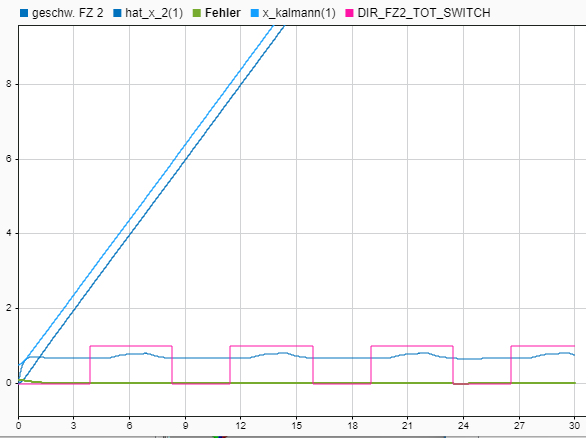
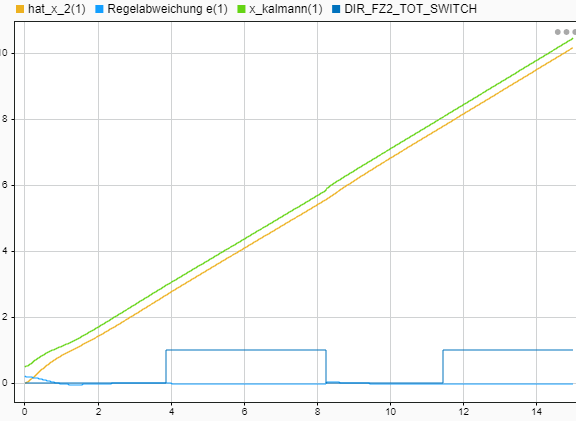
Update Polzuweisung

diff --git a/Abstandsregelung.tex b/Abstandsregelung.tex
@@ -462,8 +462,7 @@ werden um vor allem dem großen Fehler zu Beginn der Fahrt zu eliminieren.
 \subsection{Polzuweisung}\label{subsec:polzuweisung}
 Die Polzuweisung wurde analog zum Buch Lunze Regelungstechnik 2 \footnote{Lunze
 2020 - Regelungstechnik 2 - Mehrgrößensystem, Digitale Regelung, Seite 249}
-implementiert. Eine Übersicht der Implementierung in Simulink ist in
-Abbildung~\ref{fig:polzuw} dargestellt.
+implementiert. 
 \begin{figure}[hbt]
 \centering
 \begin{subfigure}{0.49\textwidth}
@@ -472,14 +471,14 @@ Abbildung~\ref{fig:polzuw} dargestellt.
 \end{subfigure}
     \caption{Übersicht über die Implementierung der Regelung mit Polzuweisung.
     \label{fig:polzuw}}
-\end{figure}    
-
-Zunächst wurde die Steuerbarkeit des Systems überprüft. Anschließend wurde durch
-den \textit{place} Befehl in Matlab die Reglermatrix $K_{pol}$ bestimmt. Die
-Pole wurden anschließend durch systematisches ausprobieren bestimmt, sodass sich
-die Werte $[-1, -5]$ ergaben. Wichtig ist dabei, dass diese links von den
-Eigenwerten liegen und beide negativ sind.
-
+\end{figure}   
+Eine Übersicht der Implementierung in Simulink ist in Abbildung~\ref{fig:polzuw}
+dargestellt. Zunächst wurde die Steuerbarkeit des Systems überprüft.
+Anschließend wurde durch den \textit{place} Befehl in Matlab die Reglermatrix
+$K_{pol}$ bestimmt. Die Pole wurden anschließend durch systematisches
+ausprobieren bestimmt, sodass sich die Werte $[-8, -7.0]$ ergaben. Wichtig ist
+dabei, dass diese links von den Eigenwerten liegen und beide negativ sind. Eine
+ideale Polzuweisung durch ein geeignetes Verfahren ist allerdings nicht möglich.
 \begin{figure}[hbt]
 \centering
 \begin{subfigure}{0.49\textwidth}
@@ -504,11 +503,17 @@ sehen, bei dem sich ein relativ großer Abstand, sowie eine großer konstanter
 Fehler (Offset) bildet. Ähnlich wie bei der Polzuweisung kann der konstante
 Fehler durch eine Vorsteuerung behoben werden.
 
-Das Verhalten mit Vorsteuerung ($pol_{offset} = 0.65$) ist in Teil (b) zu sehen.
-Der Fehler ist fast durchweg auf 0 und von Beginn an kann ein konstanter Abstand
-eingehalten werden. Der Fehler ist fast durchweg auf 0 und von Beginn
-an kann ein konstanter Abstand eingehalten werden. Auch bei der Kurvenausfahrt
-ist fast kein Sprung in der Positions- bzw. Geschwindigkeitserkennung zu sehen.
-Somit ist ein konstant gutes Regelungsergebnis zu sehen.
+Das Verhalten mit Vorsteuerung ($pol_{offset} = 0.16$) ist in Teil (b) zu sehen.
+Der Fehler ist fast durchweg nähe der 0 und von Beginn an kann ein relativ
+konstanter Abstand eingehalten werden. Der Fehler ist fast durchweg auf 0 und
+von Beginn an kann ein konstanter Abstand eingehalten werden. Auch bei der
+Kurvenausfahrt ist fast kein Sprung in der Positions- bzw.
+Geschwindigkeitserkennung zu sehen.  Somit ist ein konstant gutes
+Regelungsergebnis zu sehen. 
+
+Problematisch ist immer noch, dass nicht exakt 0 erreicht werden konnte. Durch
+eine bessere Wahl der Pole, sowie des Offsets könnte die Kurve noch so
+verschoben werden, dass ein noch besseres Regelungsergebnis erzielt werden
+kann.
 
 
